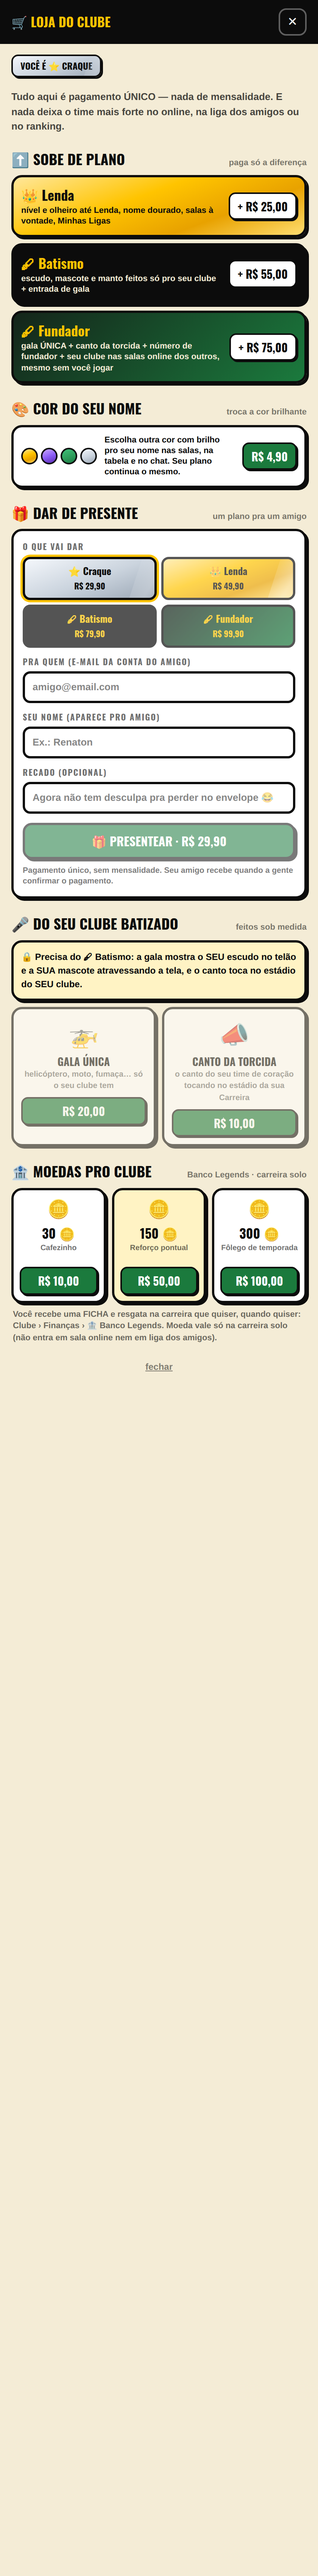
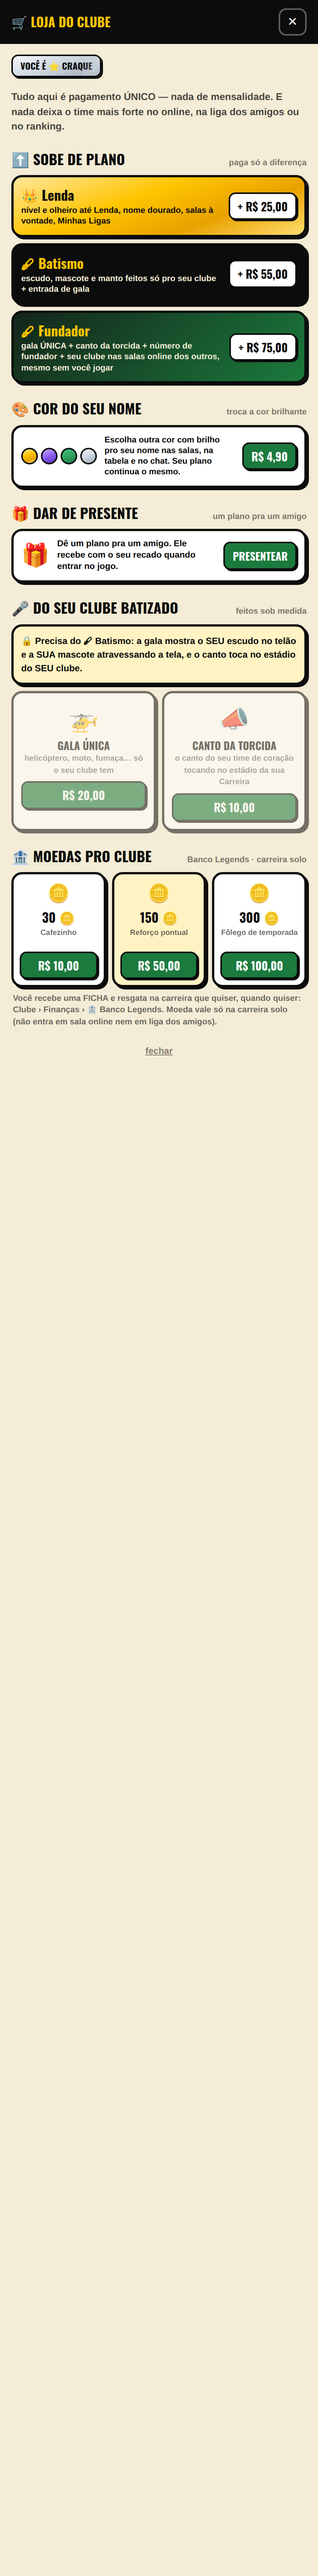
Presente: começa fechado (uma linha com PRESENTEAR); o formulário só abre quando aperta
Claude-Session: https://claude.ai/code/session_018Ap1zPCMVL9XeZJN3u93ZA

Changed region(s): [[0.031, 0.1871, 0.9905, 0.53]]

diff --git a/src/escalacao/presente.tsx b/src/escalacao/presente.tsx
@@ -37,6 +37,7 @@ export function PresenteBox() {
   const [busy, setBusy] = useState(false)
   const [erro, setErro] = useState<string | null>(null)
   const [pedido, setPedido] = useState<number | null>(null)
+  const [aberto, setAberto] = useState(false) // 14/10 (Diego): "ficou muito grande… teria que esperar apertar pra ampliar"
   const logado = !!loggedEmail()
   const inp: React.CSSProperties = { width: '100%', border: `3px solid ${INK}`, borderRadius: 10, padding: '8px 10px', fontSize: 13, fontWeight: 700, background: '#fff', fontFamily: 'Arial, sans-serif' }
   const rot: React.CSSProperties = { ...OSW, fontSize: 11, letterSpacing: '.1em', color: 'rgba(12,12,12,.6)', margin: '10px 0 5px' }
@@ -57,8 +58,13 @@ export function PresenteBox() {
       style={{ width: '100%', marginTop: 10, ...OSW, fontSize: 14, background: '#E1306C', color: '#fff', border: `3px solid ${INK}`, borderRadius: 12, boxShadow: `3px 3px 0 ${INK}`, padding: 10, cursor: 'pointer' }}>{tr('📸 MANDAR COMPROVANTE NO @leilaolegendscom', '📸 SEND THE RECEIPT TO @leilaolegendscom')}</button>
     <p style={{ textAlign: 'center', margin: '8px 0 0' }}><button onClick={() => { setPedido(null); setPara(''); setRecado('') }} style={{ background: 'none', border: 'none', textDecoration: 'underline', fontWeight: 900, fontSize: 11, color: 'rgba(12,12,12,.5)', cursor: 'pointer' }}>{tr('dar outro presente', 'send another gift')}</button></p>
   </div>
+  if (!aberto) return <div style={{ background: '#fff', border: `3px solid ${INK}`, borderRadius: 14, boxShadow: `3px 3px 0 ${INK}`, padding: 10, display: 'flex', gap: 10, alignItems: 'center' }}>
+    <span style={{ fontSize: 30 }}>🎁</span>
+    <small style={{ flex: 1, fontSize: 11.5, fontWeight: 700, lineHeight: 1.3 }}>{tr('Dê um plano pra um amigo. Ele recebe com o seu recado quando entrar no jogo.', 'Give a plan to a friend. They get it with your message when they open the game.')}</small>
+    <button onClick={() => { logApoio('🎁 abriu o presente'); setAberto(true) }} style={{ ...OSW, fontSize: 14, background: GREEN, color: '#fff', border: `2px solid ${INK}`, borderRadius: 9, padding: '6px 10px', boxShadow: `2px 2px 0 ${INK}`, cursor: 'pointer', whiteSpace: 'nowrap' }}>{tr('PRESENTEAR', 'SEND GIFT')}</button>
+  </div>
   return <div style={{ background: '#fff', border: `3px solid ${INK}`, borderRadius: 14, boxShadow: `3px 3px 0 ${INK}`, padding: 12 }}>
-    <p style={{ ...rot, marginTop: 0 }}>{tr('O QUE VAI DAR', 'WHAT YOU’LL GIVE')}</p>
+    <p style={{ ...rot, marginTop: 0, display: 'flex', justifyContent: 'space-between' }}>{tr('O QUE VAI DAR', 'WHAT YOU’LL GIVE')}<button onClick={() => setAberto(false)} style={{ background: 'none', border: 'none', fontWeight: 900, fontSize: 12, cursor: 'pointer', color: 'rgba(12,12,12,.5)' }}>✕</button></p>
     <div style={{ display: 'grid', gridTemplateColumns: '1fr 1fr', gap: 6 }}>
       {(Object.keys(NOME) as PlanoUnico[]).map(p => <button key={p} onClick={() => setPlano(p)} style={{ position: 'relative', overflow: 'hidden', ...OSW, fontSize: 13, border: `3px solid ${INK}`, borderRadius: 10, padding: '6px 4px', cursor: 'pointer', background: FUNDO[p], color: p === 'batismo' || p === 'fundador' ? GOLD : INK, boxShadow: plano === p ? `0 0 0 3px ${GOLD}, 2px 2px 0 ${INK}` : 'none', opacity: plano === p ? 1 : .7 }}>
         {(p === 'craque' || p === 'lenda') && <ApoioSheen holo={p === 'lenda' ? .75 : .5} />}
